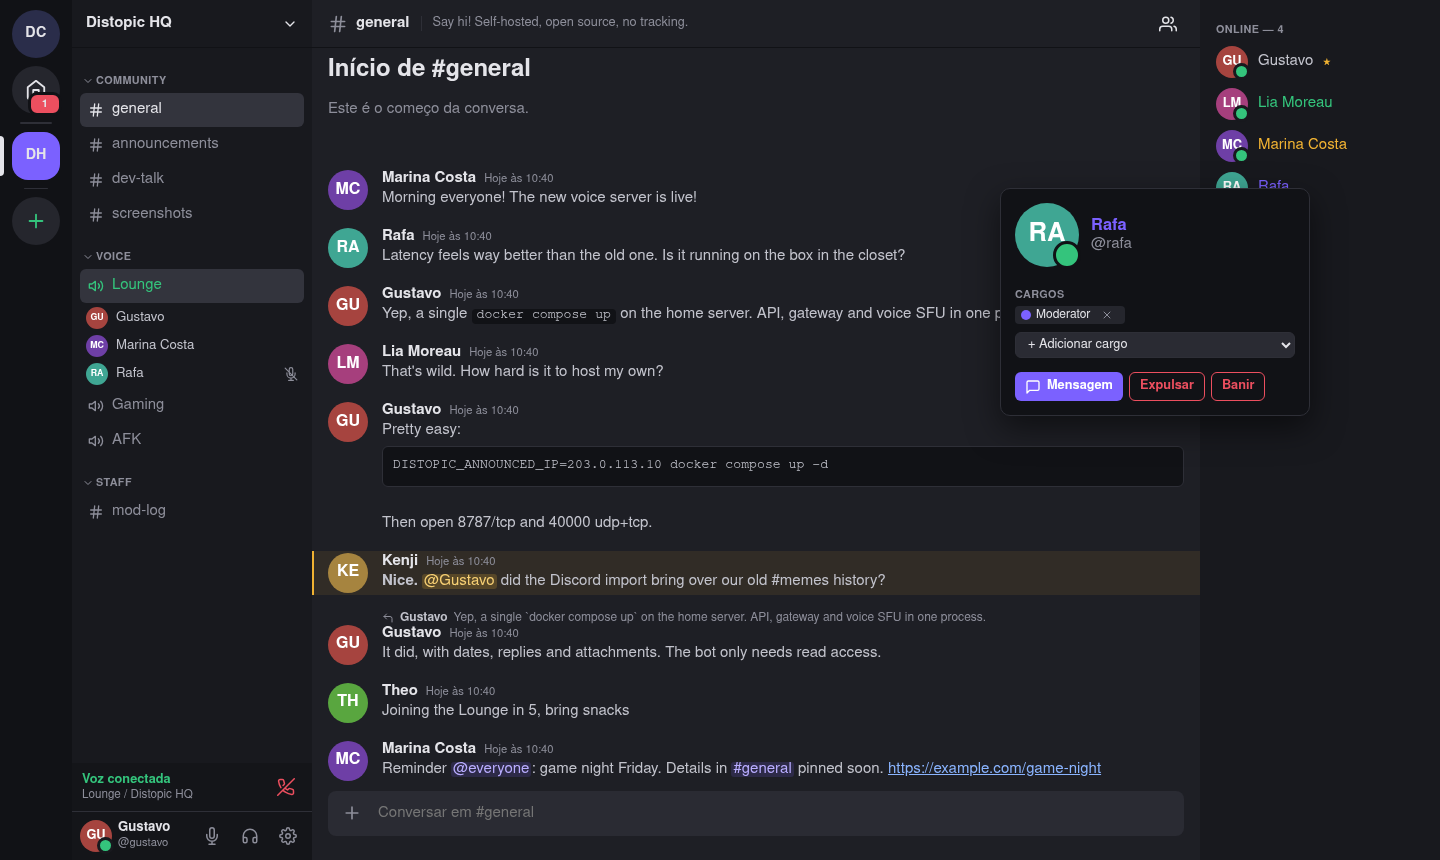
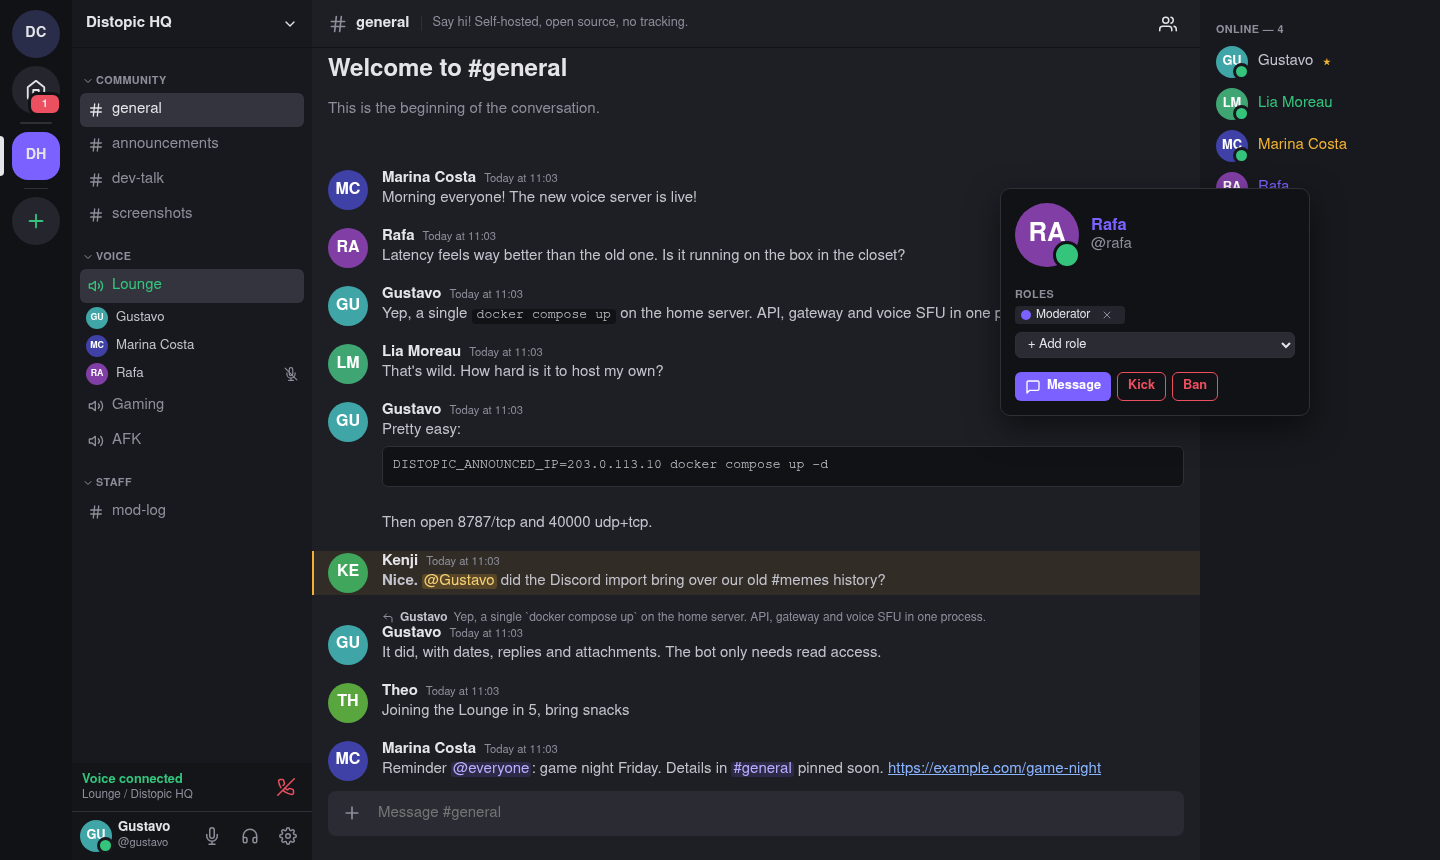
docs: English screenshots and host-only server note
Replace the screenshots with English-labelled captures of a seeded demo
instance and state that only the host installs the server.

diff --git a/README.md b/README.md
@@ -41,8 +41,8 @@
 - **Notifications** for mentions and DMs, plus unread badges, including Discord's
   own unread count.
 
-> The interface is currently in Portuguese (pt-BR). Localization is on the
-> [roadmap](#roadmap).
+> The interface is currently in Portuguese (pt-BR); localization is on the
+> [roadmap](#roadmap). The screenshots below show the English labels planned for it.
 
 ## Screenshots
 
@@ -79,8 +79,10 @@ On first launch:
 2. Sign in with Discord (if the server enables it) or create a local account.
 3. Create a server with **+**, or join one with an invite code.
 
-Need a server? See [distopic-server](https://github.com/GustavoHSCruz/distopic-server).
-It runs with a single `docker compose up`.
+**Joining someone's community?** The client is all you need: no server
+install. Only the person hosting the community runs
+[distopic-server](https://github.com/GustavoHSCruz/distopic-server), once,
+with a single `docker compose up`.
 
 ## How the Discord tab works
 

diff --git a/README.pt-BR.md b/README.pt-BR.md
@@ -43,6 +43,8 @@
 
 Mais capturas no [README em inglês](README.md#screenshots).
 
+> As capturas mostram os rótulos em inglês da futura versão localizada; o build atual tem a interface em português.
+
 ## Começando
 
 Precisa do Node.js 22.13 ou mais novo.
@@ -56,6 +58,10 @@ npm run dev
 
 No app, clique em **Conectar a um servidor Distopic** e digite o endereço (sem
 porta, usa a `8787`). Depois, entre com Discord ou crie uma conta.
+
+**Vai entrar na comunidade de alguém?** Basta o client; você não instala
+servidor nenhum. Só quem hospeda roda o
+[distopic-server](https://github.com/GustavoHSCruz/distopic-server), uma vez.
 
 ## Sobre a aba do Discord
 
